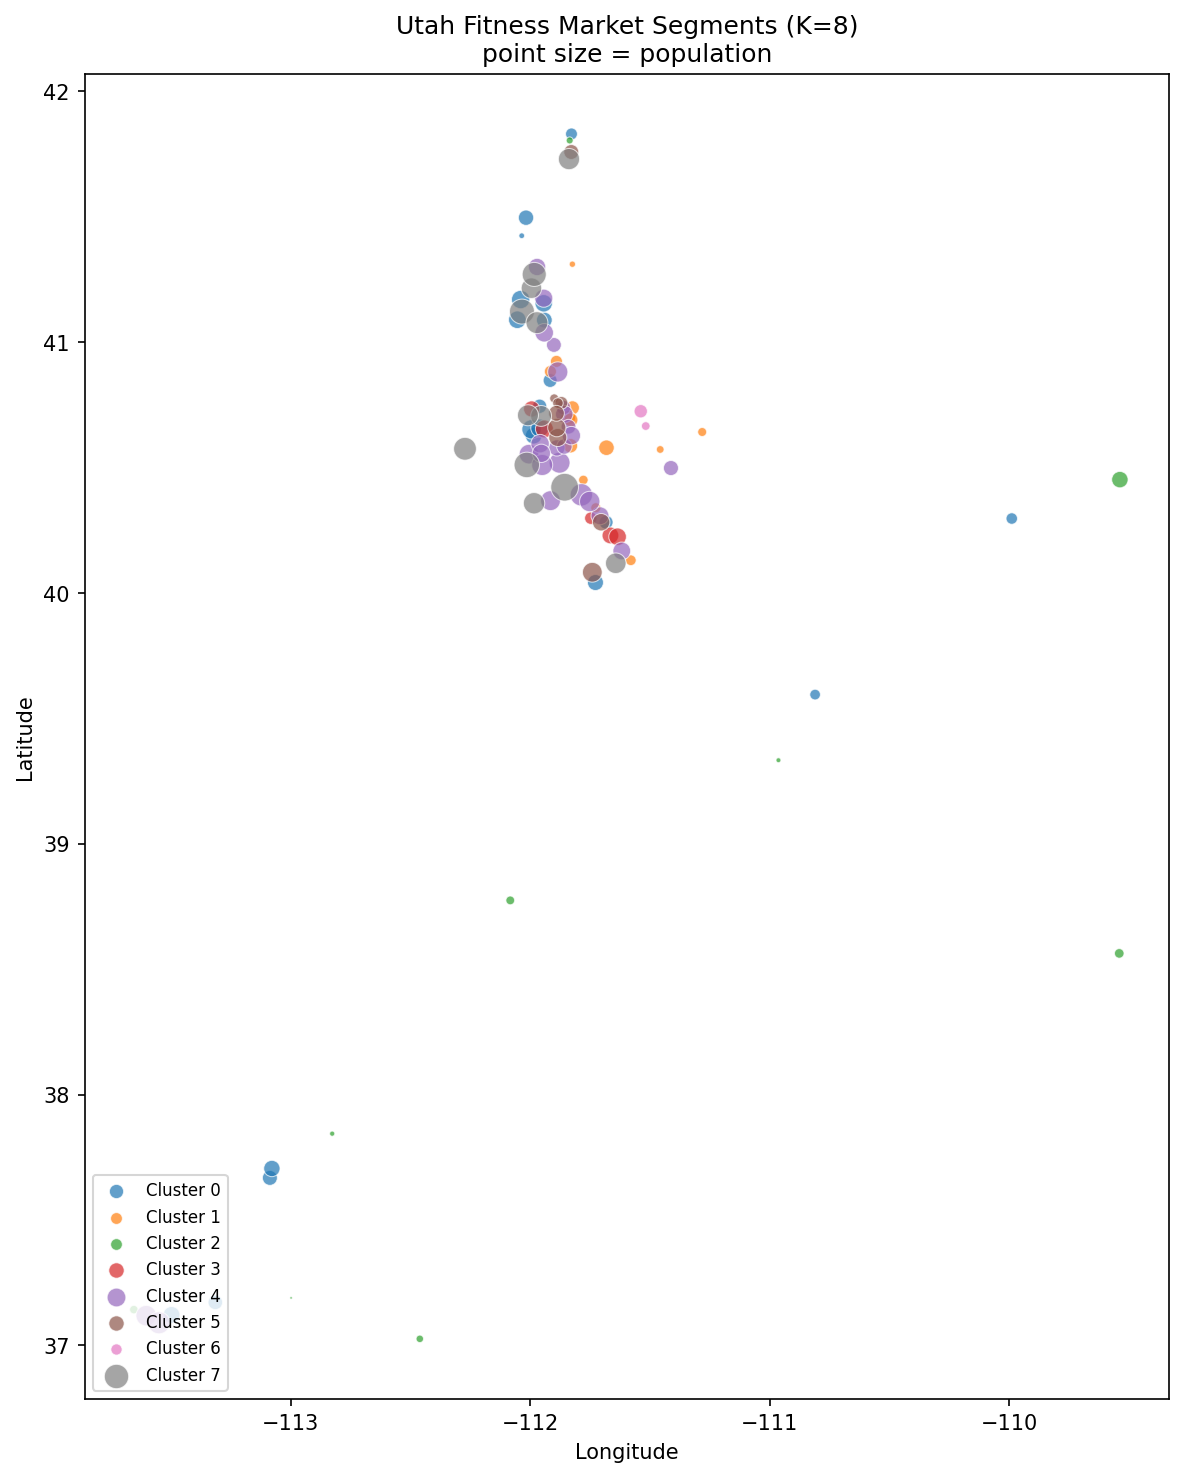
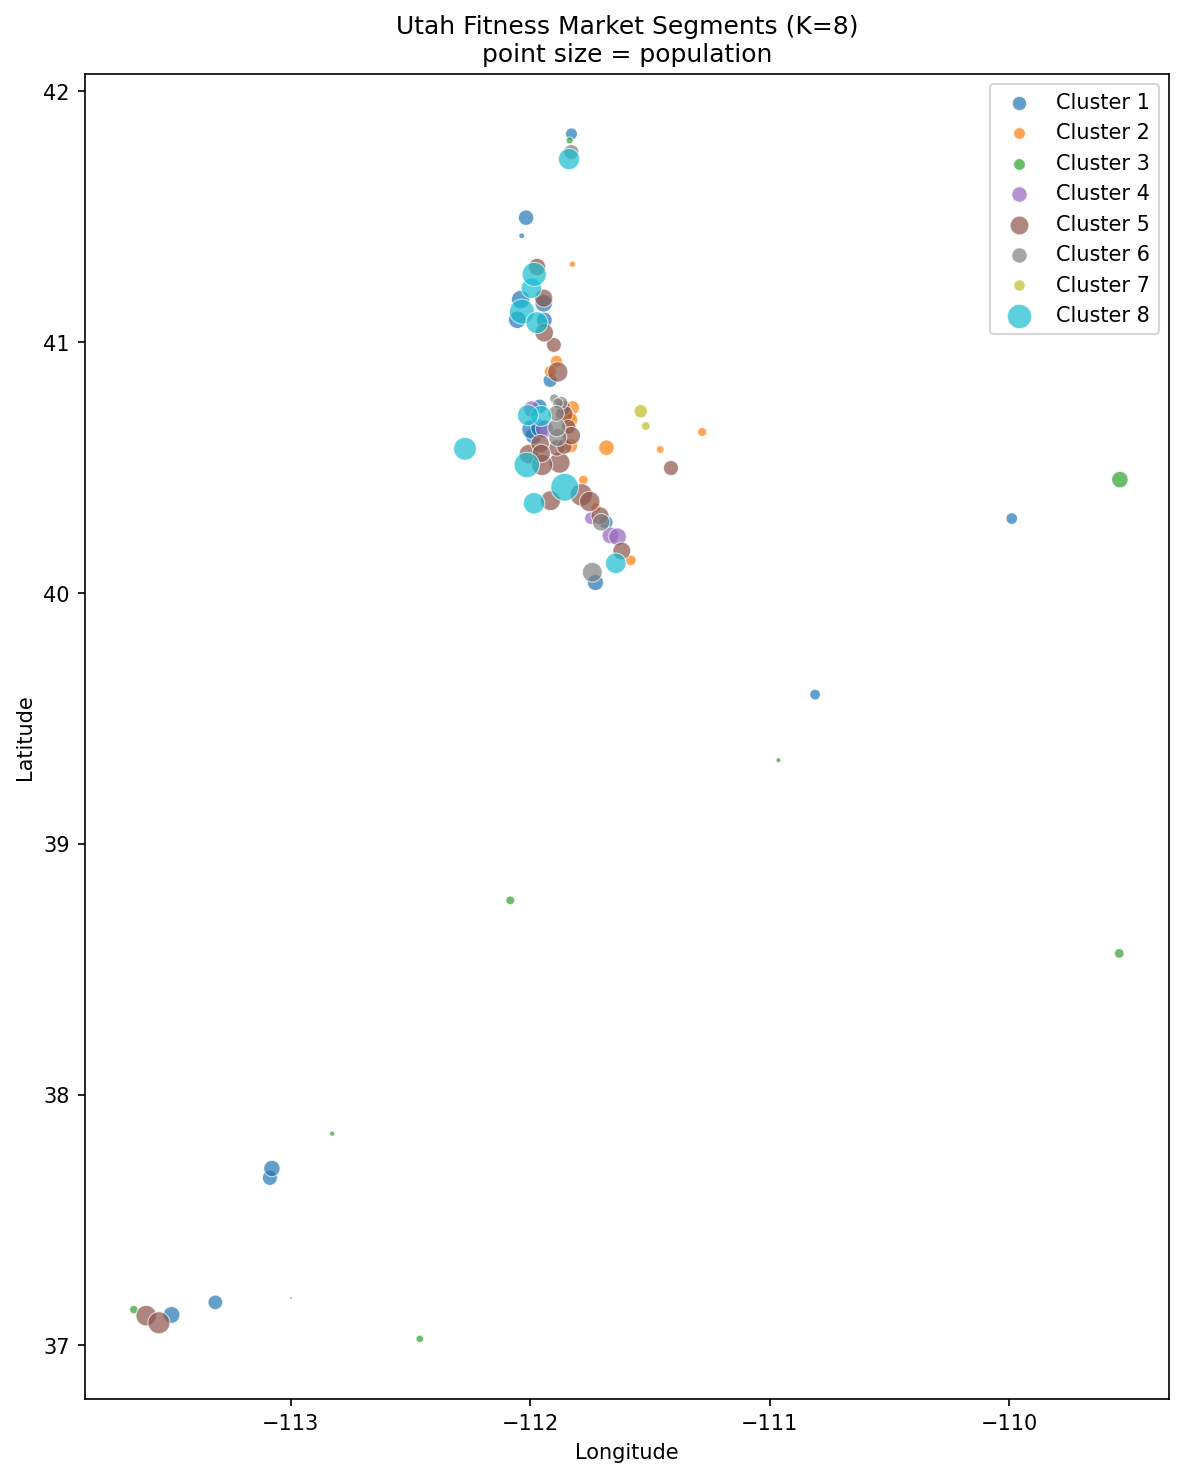
update_

diff --git a/thriving_model/run_models.py b/thriving_model/run_models.py
@@ -298,18 +298,18 @@ best_k = max(zip(K_range, sil_scores), key=lambda x: x[1])[0]
 print(f'Best K by silhouette: {best_k}')
 
 km_final = KMeans(n_clusters=best_k, random_state=42, n_init=10)
-zip_features['cluster'] = km_final.fit_predict(X_clust)
+zip_features['cluster'] = km_final.fit_predict(X_clust) + 1  # 1-indexed labels
 
 cluster_profile = zip_features.groupby('cluster')[CLUSTER_FEATURES].mean().round(2)
 print('\nCluster profiles:')
 print(cluster_profile.T)
 
 # Map
-colors = ['steelblue', 'tomato', 'seagreen', 'orange', 'purple', 'brown']
+cmap = plt.cm.get_cmap('tab10', best_k)
 fig, ax = plt.subplots(figsize=(8, 10))
 for cid in sorted(zip_features['cluster'].unique()):
     sub = zip_features[zip_features['cluster'] == cid]
-    ax.scatter(sub['lon'], sub['lat'], c=colors[cid], label=f'Cluster {cid}',
+    ax.scatter(sub['lon'], sub['lat'], c=[cmap(cid - 1)], label=f'Cluster {cid}',
                s=sub['total_pop'] / 500, alpha=0.7, edgecolors='white', linewidths=0.5)
 ax.set_xlabel('Longitude'); ax.set_ylabel('Latitude')
 ax.set_title(f'Utah Fitness Market Segments (K={best_k})\npoint size = population')
@@ -317,6 +317,32 @@ ax.legend(); plt.tight_layout()
 plt.savefig('figures/03c_utah_clusters_map.png', dpi=150, bbox_inches='tight')
 plt.close()
 print('Saved figures/03c_utah_clusters_map.png')
+
+# Cluster profile heatmap
+profile_df = zip_features.groupby('cluster')[CLUSTER_FEATURES].mean()
+profile_norm = (profile_df - profile_df.mean()) / profile_df.std()  # z-score each feature
+feature_labels = [
+    'Median Income', 'Median Home Value', 'Pct Prime Gym Age',
+    'Pct Bachelors', 'Total Pop', 'Gyms in Zip', 'Market Gap', 'Avg Rating',
+]
+fig, ax = plt.subplots(figsize=(10, 5))
+sns.heatmap(
+    profile_norm.T,
+    annot=profile_df.T.round(0),
+    fmt='.0f',
+    cmap='RdYlGn',
+    center=0,
+    linewidths=0.5,
+    ax=ax,
+    yticklabels=feature_labels,
+    xticklabels=[f'Cluster {i}' for i in profile_norm.index],
+)
+ax.set_title('Cluster Profiles — Feature Means (color = z-score, annotation = raw value)')
+ax.set_xlabel('Cluster')
+plt.tight_layout()
+plt.savefig('figures/03c_cluster_heatmap.png', dpi=150, bbox_inches='tight')
+plt.close()
+print('Saved figures/03c_cluster_heatmap.png')
 
 # Thriving rate per cluster
 full_df = full_df.merge(zip_features[['zip_code', 'cluster']], on='zip_code', how='left')

diff --git a/README.md b/README.md
@@ -20,13 +20,13 @@ A business is considered **thriving** if it is currently open, has a Yelp rating
 |---|---|---|
 | Binary classifier (will it thrive?) | Random Forest | AUC = **0.927**, Accuracy = **87.9%** |
 | Regressor (how successful?) | Gradient Boosting | R² = **0.244**, RMSE = **0.263** |
-| Market segmentation | K-Means | K = **8** clusters, silhouette = 0.35+ |
+| Market segmentation | K-Means | K = **8** clusters, silhouette = **0.204** |
 
 **Top predictive signals:**
-1. **Business category** — general gyms thrive most; boutique studios are mixed
-2. **Income per competitor** — wealthy neighborhoods with few competitors are the ideal location
-3. **Market gap** — prime-age population relative to existing gym supply
-4. **Competition at 3km radius** — saturated local markets suppress individual business success
+1. **Business category** — the single strongest classifier feature; general gyms thrive at only **25%** (the lowest of any category), while mind/body studios (yoga, pilates) and climbing gyms thrive at **100%**
+2. **Education and demographics** — `pct_bachelors`, `median_age`, and `median_home_value` rank highly in both models; higher-educated, older, wealthier zip codes are strongly associated with thriving businesses
+3. **Competition density** — `competition_3km` is the #1 feature in the regressor; counter-intuitively, more competitors correlates with higher success, likely because dense urban markets also have greater demand
+4. **Income per competitor** — a derived signal combining area wealth with local competition load; top 5 in both classifier and regressor importance
 
 ---
 
